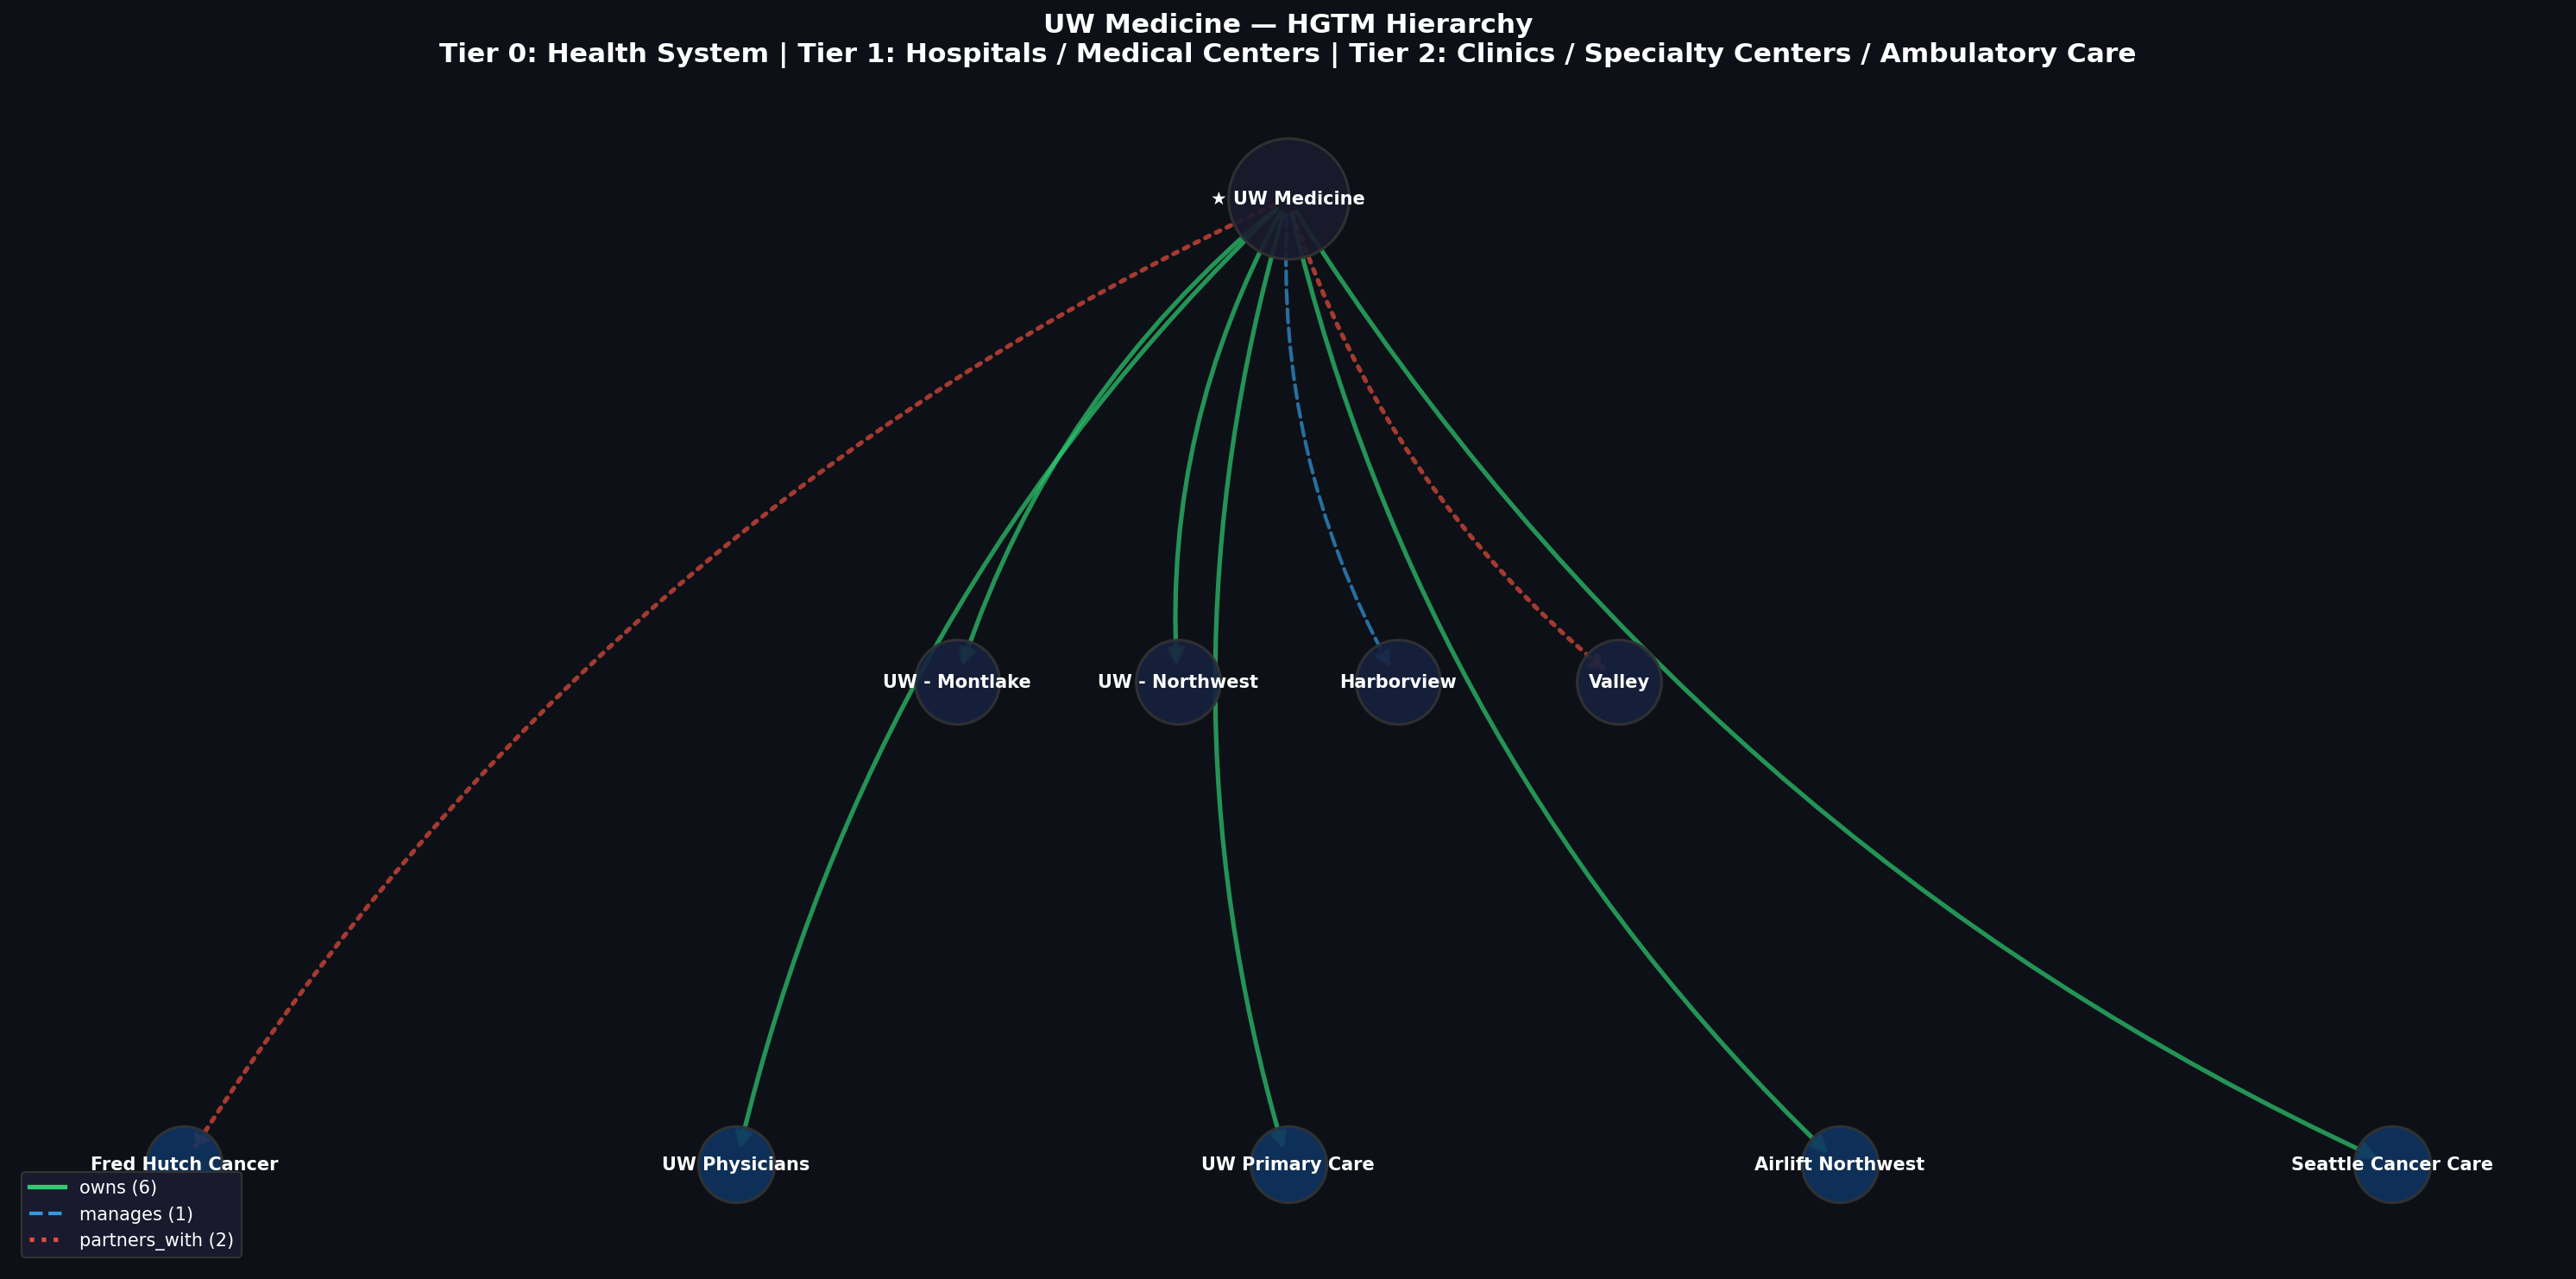
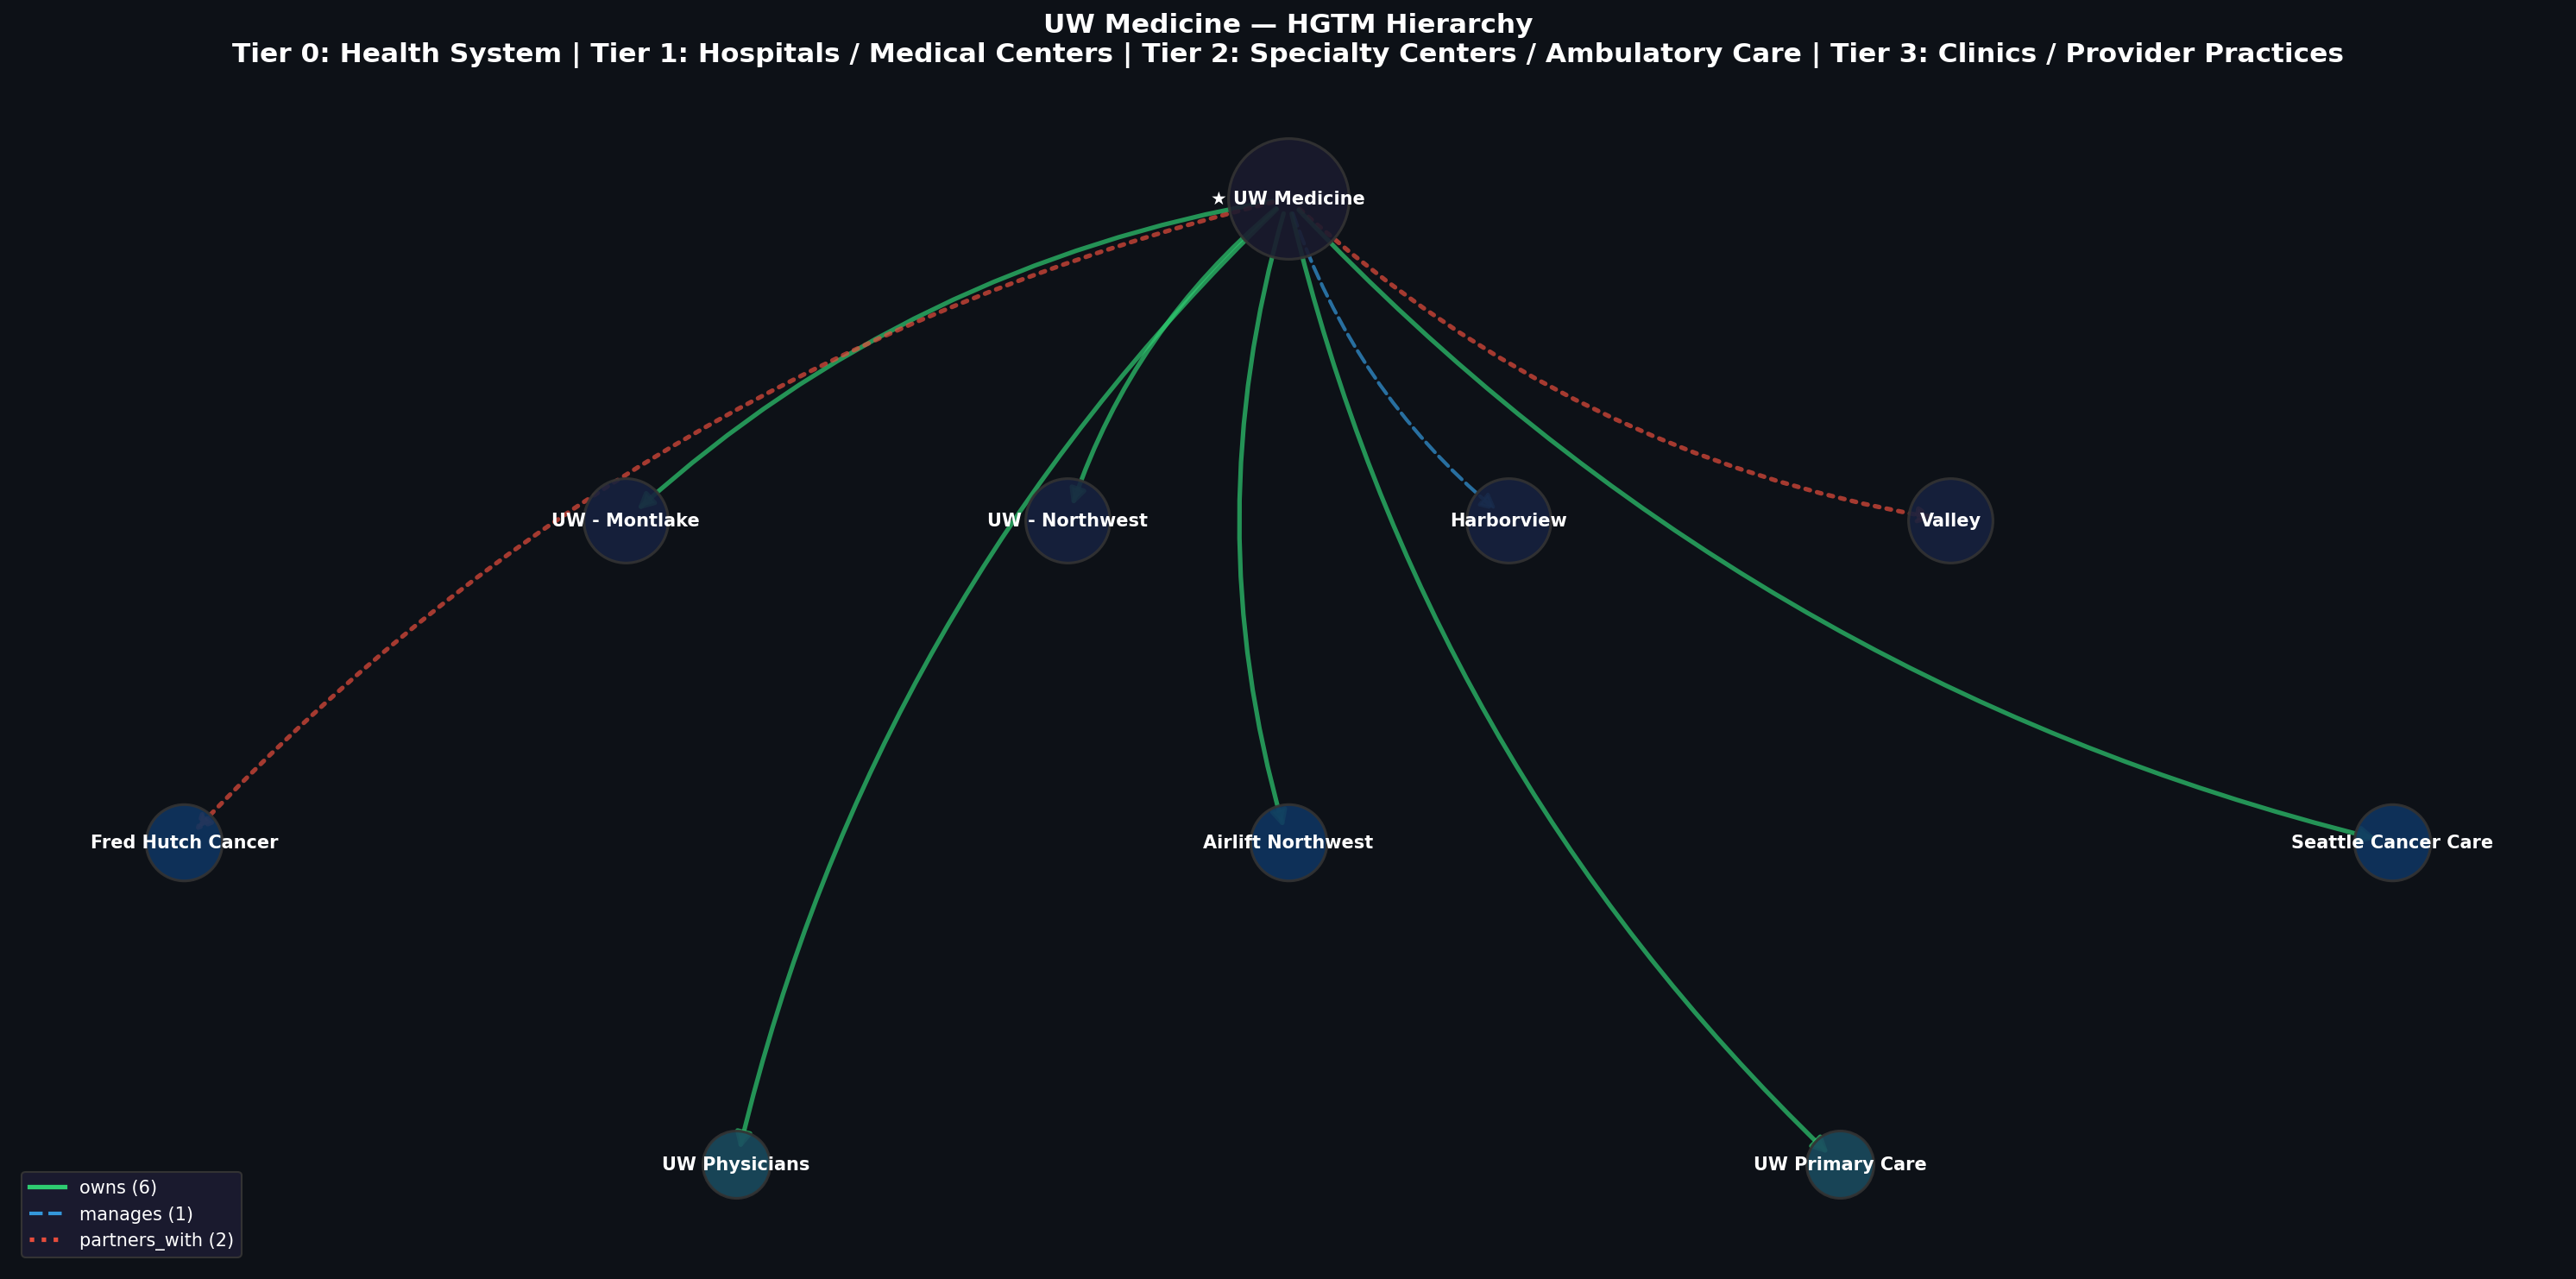
Rename HGTM to HS2; restructure tiers (clinics → Tier 3)
- Rename project from HGTM (Hierarchical Ground Truth Model) to HS2 (Hierarchical Structure of Health Systems)
- Rename directory hgtm/ → hs2/ and GitHub repo TensorEspresso/hgtm → TensorEspresso/hs2
- Restructure tier system: Tier 2 now specialty centers only, Tier 3 for clinics/provider practices
- Reclassify UW Medicine: UW Physicians and Primary Care moved to Tier 3
- Add tier-system-research.md with evidence from 8 health systems and academic sources
- Update skill, README, AGENTS.md, all generate scripts, visualizations

diff --git a/systems/um-health/generate_hierarchy.py b/systems/um-health/generate_hierarchy.py
@@ -14,6 +14,7 @@ TITLE_COLOR = '#e6edf3'
 NODE_ROOT = '#1c2541'
 NODE_T1 = '#1a2332'
 NODE_T2 = '#1c3a5e'
+NODE_T3 = '#1a4a5e'
 TEXT = '#ffffff'
 EDGE_OWNS = '#39d353'
 EDGE_MANAGES = '#58a6ff'
@@ -30,15 +31,19 @@ root_id = 'um-health-root'
 # Separate by tier
 tier1 = []  # hospitals
 tier2 = []  # specialty centers
+tier3 = []  # clinics, provider practices
 for rel in relationships:
     target = entities[rel['target']]
     if target.get('tier') == 1:
         tier1.append((rel, target))
     elif target.get('tier') == 2:
         tier2.append((rel, target))
+    elif target.get('tier') == 3:
+        tier3.append((rel, target))
 
 tier1.sort(key=lambda x: x[1]['name'])
 tier2.sort(key=lambda x: x[1]['name'])
+tier3.sort(key=lambda x: x[1]['name'])
 
 fig, ax = plt.subplots(1, 1, figsize=(16, 11), facecolor=BG)
 ax.set_facecolor(BG)
@@ -56,11 +61,11 @@ for e in data['entities']:
     elif t == 1:
         tier_labels[1] = 'Hospitals / Medical Centers'
     elif t == 2:
-        tier_labels[2] = 'Clinics / Specialty Centers / Ambulatory Care'
+        tier_labels[2] = 'Specialty Centers / Ambulatory Care'
     elif t == 3:
-        tier_labels[3] = 'Satellite Locations / Provider Practices'
+        tier_labels[3] = 'Clinics / Provider Practices'
 
-title = 'University of Michigan Health — HGTM Hierarchy'
+title = 'University of Michigan Health — HS2 Hierarchy'
 subtitle_parts = [f'Tier {k}: {v}' for k, v in sorted(tier_labels.items())]
 subtitle = ' | '.join(subtitle_parts)
 ax.text(8, 11.2, title, ha='center', va='top', fontsize=20, fontweight='bold', color=TITLE_COLOR, family='sans-serif')
@@ -115,6 +120,22 @@ for i, (rel, ent) in enumerate(tier2):
     name = short_names.get(ent['name'], ent['name'])
     ax.text(x, t2_y, name, ha='center', va='center', fontsize=10, color=TEXT, family='sans-serif')
 
+# Tier 3: Clinics / Provider Practices (row at y=0.5)
+if tier3:
+    t3_y = 0.5
+    t3_r = 0.35
+    t3_count = len(tier3)
+    t3_spacing = 14 / (t3_count + 1)
+    t3_positions = {}
+
+    for i, (rel, ent) in enumerate(tier3):
+        x = 1 + i * t3_spacing
+        t3_positions[ent['id']] = (x, t3_y)
+        circle = plt.Circle((x, t3_y), t3_r, color=NODE_T3, ec='#30363d', linewidth=1.5)
+        ax.add_patch(circle)
+        name = short_names.get(ent['name'], ent['name'])
+        ax.text(x, t3_y, name, ha='center', va='center', fontsize=9, color=TEXT, family='sans-serif')
+
 # Draw edges
 for rel in relationships:
     target_id = rel['target']
@@ -138,6 +159,8 @@ for rel in relationships:
         tx, ty = t1_positions[target_id]
     elif target_id in t2_positions:
         tx, ty = t2_positions[target_id]
+    elif 't3_positions' in globals() and target_id in t3_positions:
+        tx, ty = t3_positions[target_id]
     else:
         continue
 

diff --git a/systems/uw-medicine/generate_hierarchy.py b/systems/uw-medicine/generate_hierarchy.py
@@ -1,5 +1,5 @@
 #!/usr/bin/env python3
-"""Visualize UW Medicine HGTM hierarchy."""
+"""Visualize UW Medicine HS2 hierarchy."""
 import json
 import networkx as nx
 import matplotlib
@@ -36,7 +36,7 @@ def main():
     y_spacing = 3
     for tier_num, nodes in sorted(tiers.items()):
         n = len(nodes)
-        if tier_num == 2:
+        if tier_num >= 2:
             x_spacing = 8
         else:
             x_spacing = max(3, n * 0.8)
@@ -48,8 +48,8 @@ def main():
     # Draw
     fig, ax = plt.subplots(figsize=(20, 10))
 
-    tier_colors = {0: '#1a1a2e', 1: '#16213e', 2: '#0f3460'}
-    tier_sizes = {0: 4500, 1: 2200, 2: 1800}
+    tier_colors = {0: '#1a1a2e', 1: '#16213e', 2: '#0f3460', 3: '#1a4a5e'}
+    tier_sizes = {0: 4500, 1: 2200, 2: 1800, 3: 1400}
 
     for tier_num in sorted(tiers.keys()):
         nodes_list = [n for n in G.nodes() if G.nodes[n]['tier'] == tier_num]
@@ -129,11 +129,11 @@ def main():
         elif t == 1:
             tier_labels[1] = 'Hospitals / Medical Centers'
         elif t == 2:
-            tier_labels[2] = 'Clinics / Specialty Centers / Ambulatory Care'
+            tier_labels[2] = 'Specialty Centers / Ambulatory Care'
         elif t == 3:
-            tier_labels[3] = 'Satellite Locations / Provider Practices'
+            tier_labels[3] = 'Clinics / Provider Practices'
     tier_label = ' | '.join(f"Tier {k}: {v}" for k, v in sorted(tier_labels.items()))
-    ax.set_title(f'UW Medicine — HGTM Hierarchy\n{tier_label}',
+    ax.set_title(f'UW Medicine — HS2 Hierarchy\n{tier_label}',
                  fontsize=15, fontweight='bold', color='white', pad=20)
 
     ax.set_axis_off()

diff --git a/systems/ur-medicine/generate_hierarchy.py b/systems/ur-medicine/generate_hierarchy.py
@@ -1,5 +1,5 @@
 #!/usr/bin/env python3
-"""Visualize UR Medicine HGTM hierarchy with improved layout for wide tiers."""
+"""Visualize UR Medicine HS2 hierarchy with improved layout for wide tiers."""
 import json
 import networkx as nx
 import matplotlib
@@ -126,7 +126,7 @@ def main():
         elif t == 3:
             tier_labels[3] = 'Satellite Locations / Provider Practices'
     tier_label = ' | '.join(f"Tier {k}: {v}" for k, v in sorted(tier_labels.items()))
-    ax.set_title(f'UR Medicine (University of Rochester Medical Center) — HGTM Hierarchy\n{tier_label}',
+    ax.set_title(f'UR Medicine (University of Rochester Medical Center) — HS2 Hierarchy\n{tier_label}',
                  fontsize=15, fontweight='bold', color='white', pad=20)
 
     ax.set_axis_off()

diff --git a/references/tier-system-research.md b/references/tier-system-research.md
@@ -1,0 +1,175 @@
+# HS2 Tier System Research
+
+Research into how US health systems structure their facilities hierarchically, with focus on whether clinics belong in Tier 2 or Tier 3.
+
+**Date:** June 26, 2026
+**Conclusion:** Clinics should be Tier 3. Evidence consistently shows a 3-level structure below the health system root.
+
+---
+
+## Recommended Tier Structure
+
+| Tier | Entity Type | Rationale |
+|---|---|---|
+| Root (0) | Health System | Umbrella organization |
+| Tier 1 | Hospitals / Medical Centers | Inpatient, full-service, resource-intensive anchors |
+| Tier 2 | Specialty Centers / Ambulatory Care Centers | Focused service array, branded entities with independent identity |
+| Tier 3 | Clinics / Satellite Locations / Provider Practices | Community-level access, distributed sites, limited service |
+
+---
+
+## Evidence: How Health Systems Describe Themselves
+
+### University of Michigan Health
+
+> *"3 hospitals, 6 specialty treatment centers and over 50 clinics and health centers"*
+
+**Source:** Ann Arbor chamber directory / UM Health self-description
+
+UM Health explicitly distinguishes **three levels** below the system:
+1. Hospitals (3)
+2. Specialty treatment centers (6)
+3. Clinics and health centers (50+)
+
+This is the clearest evidence — a major academic medical center uses exactly the 3-tier language we're proposing.
+
+### Cleveland Clinic
+
+> *"173-acre main campus near downtown Cleveland, 23 hospitals, 276 outpatient facilities"*
+> *"18 Family Health and Service Centers across the region"*
+
+**Source:** IHF membership profile; Wikipedia (History of Cleveland Clinic)
+
+Cleveland Clinic structures facilities as:
+1. Main campus + hospitals (23)
+2. Outpatient facilities (276) — includes specialty centers, diagnostic centers
+3. Family Health and Service Centers (18) — community-access primary care sites
+
+### Kaiser Permanente
+
+> *"40 hospitals and 609 medical facilities"* (also cited as "616 medical office buildings")
+
+**Source:** Kaiser Permanente Fast Facts; Wikipedia
+
+Kaiser's structure:
+1. Hospitals (40)
+2. Medical facilities — larger outpatient/ambulatory centers
+3. Medical office buildings — physician practices, clinics
+
+### Mayo Clinic Health System
+
+> *"16 hospitals, 53 multispecialty clinics and one mobile health clinic"*
+
+**Source:** Wikipedia (Mayo Clinic Health System)
+
+Mayo distinguishes:
+1. Hospitals (16)
+2. Multispecialty clinics (53) — larger, multi-service facilities
+3. Provider offices / mobile health — smaller access points
+
+### Beaumont Health / Corewell Health
+
+> *"8 hospitals"* + *"187 ambulatory/outpatient sites including emergency and urgent care, outpatient and medical centers, outpatient laboratory centers, outpatient pharmacies, physical therapy centers, imaging centers, senior living and nursing homes"*
+
+**Source:** Wikipedia (Beaumont Health)
+
+Beaumont's structure:
+1. Hospitals (8)
+2. Ambulatory/outpatient sites (187) — further subdivided by service type
+3. Individual specialty sites (lab centers, imaging centers, etc.)
+
+### Providence Health & Services
+
+> *"51 hospitals and over 1,100 clinics in seven U.S. states"*
+
+**Source:** Wikipedia (Providence Health & Services)
+
+Providence explicitly separates:
+1. Hospitals (51)
+2. Clinics (1,100+)
+
+---
+
+## Evidence: Academic and Industry Frameworks
+
+### Hub-and-Spoke Model
+
+The hub-and-spoke model is the dominant organizational framework in healthcare systems literature, cited across PMC, HealthLeaders, and industry publications.
+
+> *"The hub is the hospital, and the spokes are a network of strategically placed outpatient clinics within the community."*
+> — Hall Render, "Weekly Hospital Real Estate Briefing"
+
+> *"Hub-and-spoke healthcare delivery networks... main campus or hub, which receives the heaviest resource investments and supplies the most intensive medical services, complemented by satellite campuses or spokes, which offer more limited service arrays at sites distributed..."*
+> — PMC (Hub-and-Spoke Organization Design)
+
+The model consistently describes three levels:
+1. **Hub** = anchor hospital (inpatient, full service)
+2. **Intermediate** = specialty centers / ambulatory care centers (focused service)
+3. **Spoke** = community clinics / satellite sites (distributed access)
+
+### MedPAC (Medicare Payment Advisory Commission)
+
+> *"...costly site (e.g., ambulatory care center versus a hospital...)"*
+
+**Source:** MedPAC June 2004 Report
+
+MedPAC explicitly distinguishes ambulatory care centers from hospitals as separate facility types with different cost structures — supporting the Tier 1 vs Tier 2 distinction.
+
+### "Medicine Moves to the Mall" (University of Chicago Press)
+
+> *"At the hospital, ambulatory care patients mingle with inpatients... At a satellite center, where well-baby visits and treatment of minor illnesses are the most common services..."*
+
+**Source:** "Medicine Moves to the Mall" (1st ed.)
+
+Distinguishes between:
+1. Hospital-based ambulatory care (inside Tier 1)
+2. Satellite centers (standalone, limited service — Tier 3)
+
+### PolicyMap Compendium of U.S. Health Systems
+
+> *"The Compendium contains four primary facility files—hospitals, outpatient sites, nursing homes, and home health care organizations"*
+
+**Source:** PolicyMap Blog (December 2025)
+
+A health systems data vendor distinguishes hospitals from outpatient sites as separate facility categories.
+
+---
+
+## Key Distinction: Tier 2 vs Tier 3
+
+The dividing line between Tier 2 and Tier 3 is **independent brand identity and service array**:
+
+| Criteria | Tier 2 (Specialty Center) | Tier 3 (Clinic) |
+|---|---|---|
+| Brand identity | Named, branded entity (e.g., "Kellogg Eye Center") | Generic or service-named (e.g., "Urology Clinic") |
+| Service array | Multi-service within specialty | Single-service or limited |
+| Physical footprint | Dedicated building or major wing | Room, suite, or small building |
+| Patient volume | High-volume specialty destination | Community access point |
+| Example | Karmanos Cancer Institute | Pediatric Cardiology in Flint |
+
+---
+
+## International Evidence
+
+### SingHealth (Singapore)
+
+SingHealth uses a hub-and-spoke model with:
+1. Acute hospitals (hub)
+2. Specialist centers
+3. Polyclinics / community health centers (spoke)
+
+**Source:** Straits Times; SingHealth website
+
+---
+
+## Conclusion
+
+The evidence is consistent across:
+- **Self-descriptions** of major US health systems (UM, Cleveland Clinic, Kaiser, Mayo, Beaumont, Providence)
+- **Academic literature** (hub-and-spoke model, PMC papers)
+- **Industry frameworks** (MedPAC, PolicyMap)
+- **International systems** (SingHealth)
+
+All point to a **3-level structure below the health system root**: hospitals → specialty centers → clinics/satellites.
+
+**Recommendation: Move clinics to Tier 3.**

diff --git a/README.md b/README.md
@@ -1,4 +1,4 @@
-# Hierarchical Ground Truth Model (HGTM)
+# Hierarchical Structure of Health Systems (HS2)
 
 US Health System hierarchy — validated, typed relationships.
 
@@ -10,8 +10,12 @@ US Health System hierarchy — validated, typed relationships.
 |---|---|---|
 | Root | Health System | University of Michigan Health |
 | Tier 1 | Hospitals / Medical Centers | C.S. Mott Children's Hospital |
-| Tier 2 | Clinics / Specialty Centers / Ambulatory Care | Kellogg Eye Center |
-| Tier 3 | Satellite Locations / Provider Practices | Pediatric Cardiology in Flint |
+| Tier 2 | Specialty Centers / Ambulatory Care Centers | Kellogg Eye Center |
+| Tier 3 | Clinics / Satellite Locations / Provider Practices | UW Medicine Primary Care |
+
+**Tier 2 vs Tier 3 distinction:** Tier 2 = specialty centers with independent brand identity and focused multi-service array (e.g., "Kellogg Eye Center," "Karmanos Cancer Institute"). Tier 3 = general clinics, satellite offices, provider practices — community-level access points with limited service (e.g., "Urology Clinic," "Pediatric Cardiology in Flint"). The dividing line is independent brand identity and service array, not naming convention alone.
+
+**Evidence:** Every major US health system self-describes with this 3-level structure below the system root. UM Health: "3 hospitals, 6 specialty treatment centers and over 50 clinics." Cleveland Clinic: "23 hospitals, 276 outpatient facilities, 18 Family Health and Service Centers." Kaiser: "40 hospitals and 609 medical facilities." See `references/tier-system-research.md` for full research.
 
 ### Relationship Types
 
@@ -68,7 +72,7 @@ Loose affiliations (no contract, no equity) are **not** included.
 ## Structure
 
 ```
-hgtm/
+hs2/
 ├── README.md          ← this file (model spec)
 ├── systems/           ← per health system
 │   ├── um-health/
@@ -92,6 +96,6 @@ hgtm/
 |---|---|---|---|---|---|---|
 | University of Michigan Health | 1, 2 | 9 | 8 | 0 | 0 | Validated core |
 | UR Medicine | 1, 2 | 12 | 5 | 0 | 6 | Validated core |
-| UW Medicine | 1, 2 | 10 | 6 | 1 | 2 | Validated core |
+| UW Medicine | 1, 2, 3 | 10 | 6 | 1 | 2 | Validated core |
 
 Built with Qwen 3.6 27B (MTP) running locally via [Hermes Agent](https://github.com/nousresearch/hermes-agent).

diff --git a/AGENTS.md b/AGENTS.md
@@ -1,11 +1,11 @@
 # AGENTS.md
 
-Hierarchical Ground Truth Model (HGTM) — US health system hierarchy with validated, typed relationships.
+Hierarchical Structure of Health Systems (HS2) — US health system hierarchy with validated, typed relationships.
 
 ## Project Layout
 
 ```
-hgtm/
+hs2/
 ├── README.md          ← model spec (tiers, relationship types, schemas)
 ├── systems/           ← per health system
 │   ├── um-health/